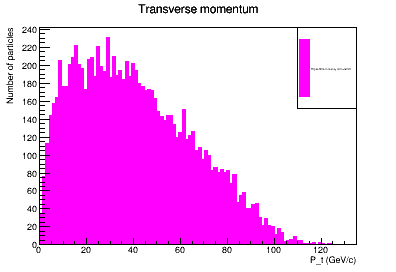
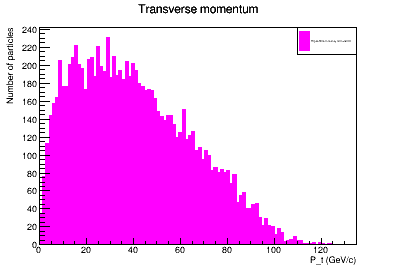
Uredivanje legende

Changed region(s): [[0.7273, 0.1471, 0.8788, 0.4118], [0.7576, 0.0882, 0.7879, 0.1471]]

diff --git a/Vjezbe_5/Analyzer.cpp b/Vjezbe_5/Analyzer.cpp
@@ -23,7 +23,7 @@ void Analyzer::PlotHistogram()
     h->SetTitle("Transverse momentum");
 
     //Create legend
-    TLegend* leg = new TLegend(0.75, 0.6, 0.9, 0.9); // constructor takes coord of lower left and upper right corners
+    TLegend* leg = new TLegend(0.75, 0.8, 0.9, 0.9); // constructor takes coord of lower left and upper right corners
     //leg->SetHeader("");
     leg->AddEntry(h, "Higss Boson Decay Simulation", "f");
     leg->Draw();
